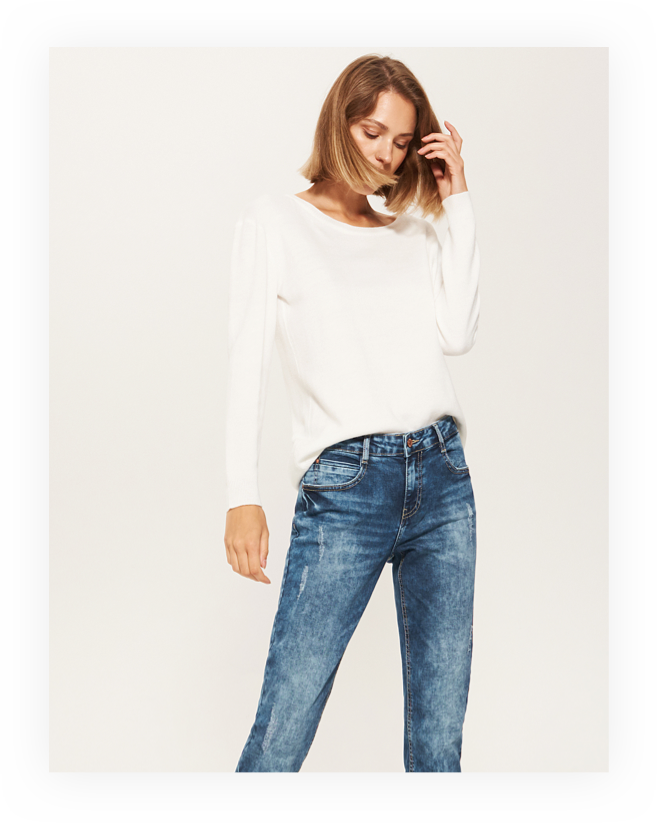
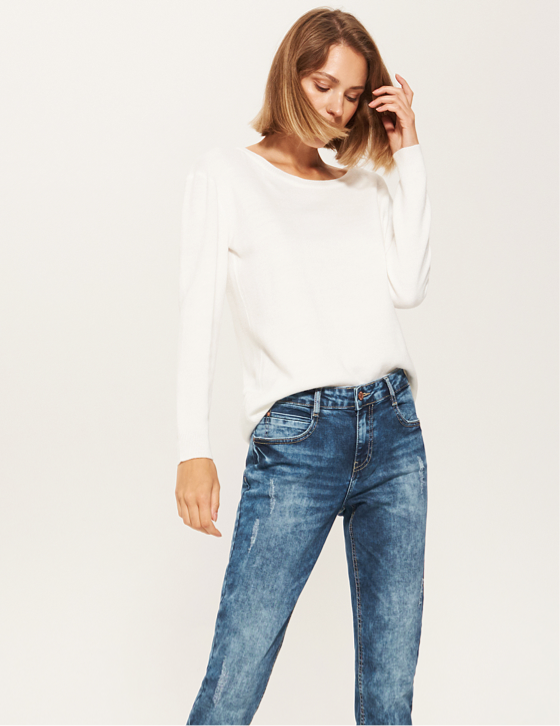
Edit: Edit header-image and font size, line height

diff --git a/components/index-header.vue b/components/index-header.vue
@@ -3,6 +3,7 @@
     <v-row
       justify="center"
       align="center"
+      :class="$vuetify.breakpoint.xl ? 'mt-6' : 'mt-0'"
     >
       <v-col
         cols="12"
@@ -62,10 +63,15 @@
         cols="12"
         sm="6"
         xl="5"
+        class="pa-0"
       >
         <v-img
           :src="require('~/assets/images/claudia-eck-hero-image-l.png')"
           alt="image"
+          height="100%"
+          width="100%"
+          :max-width="$vuetify.breakpoint.lg ? '330px' : '590px'"
+          class="ma-0 pa-0"
         >
           <div
             class="image__invisible"
@@ -128,13 +134,24 @@ export default {
     }
     &__headline {
       text-align: right;
-      font-size: 7rem;
-      line-height: 6.75rem;
+      font-size: 5rem;
+      line-height: 5.5rem;
+
+      @media screen and (min-width: 1904){
+        font-size: 7rem;
+        line-height: 6.75rem;
+      }
     }
     &__subline {
       text-align: right;
-      font-size: 1.8rem;
       margin: 20px 0;
+      font-size: 1.5rem;
+      line-height: 1.7rem;
+
+      @media screen and (min-width: 1904){
+        font-size: 1.8rem;
+        line-height: 2rem;
+      }
     }
   }
 }

diff --git a/pages/index.vue b/pages/index.vue
@@ -2,7 +2,7 @@
   <v-container>
     <Index-Header />
     <v-row>
-      <v-col class="animated">
+      <v-col class="animated pt-7">
         <p class="animated__text">
           scroll
         </p>
@@ -74,6 +74,11 @@ export default {
 <style lang="scss" scoped>
 .animated {
   height: 50px;
+  margin-bottom: 30px;
+
+  @media screen and (min-width: 1264px) {
+    margin-bottom: 140px;
+  }
 
   &__line {
     height: 0px;
